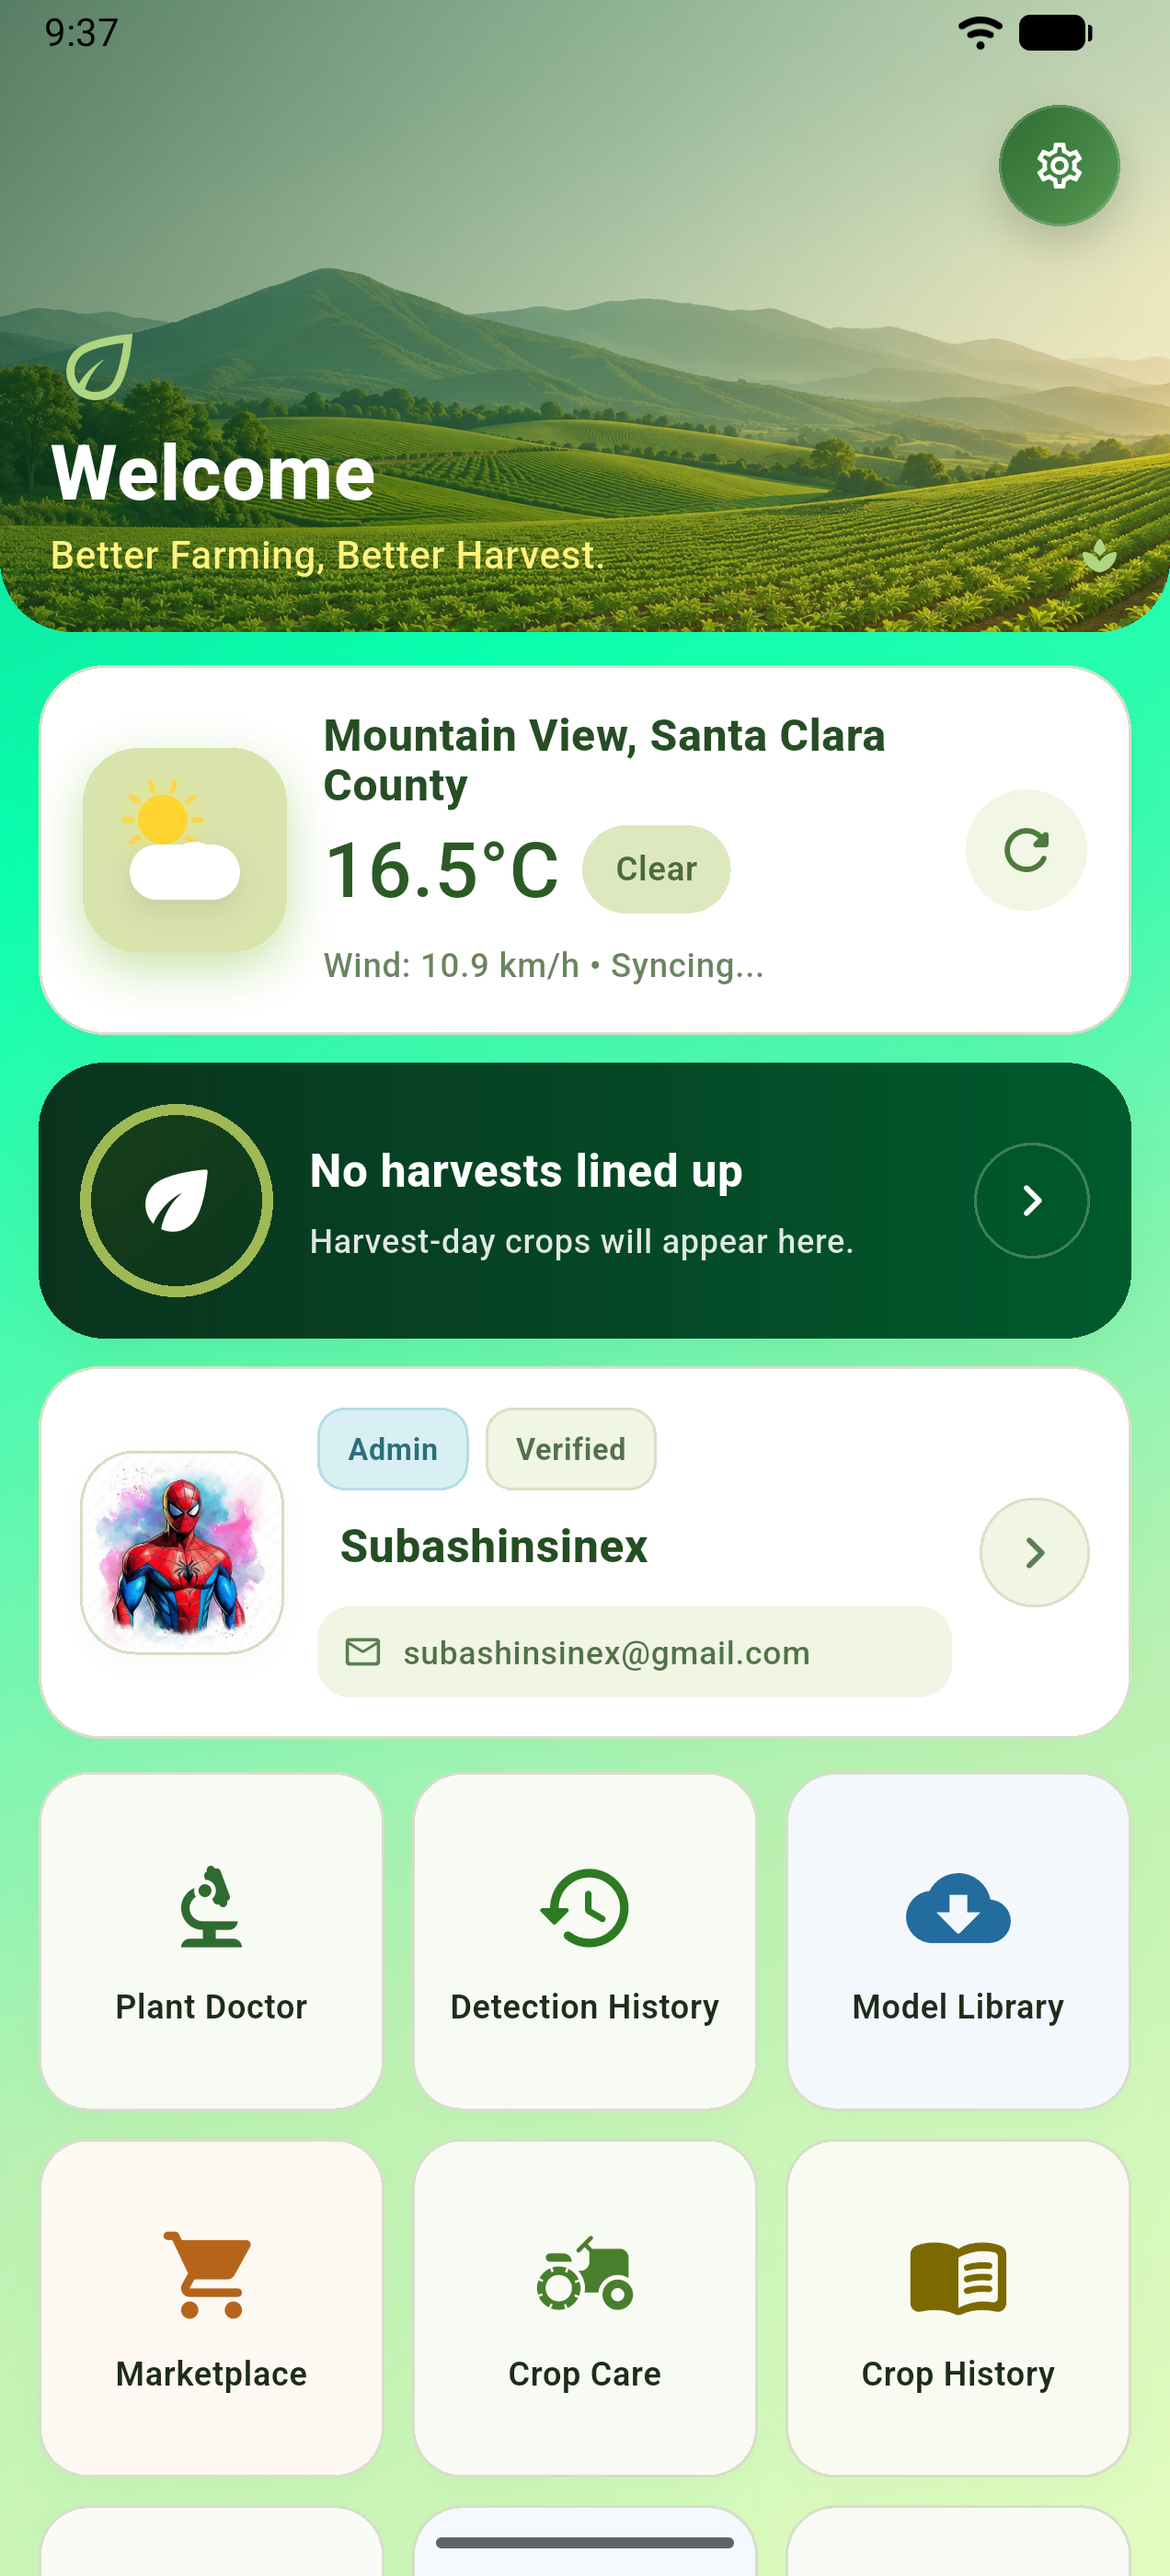
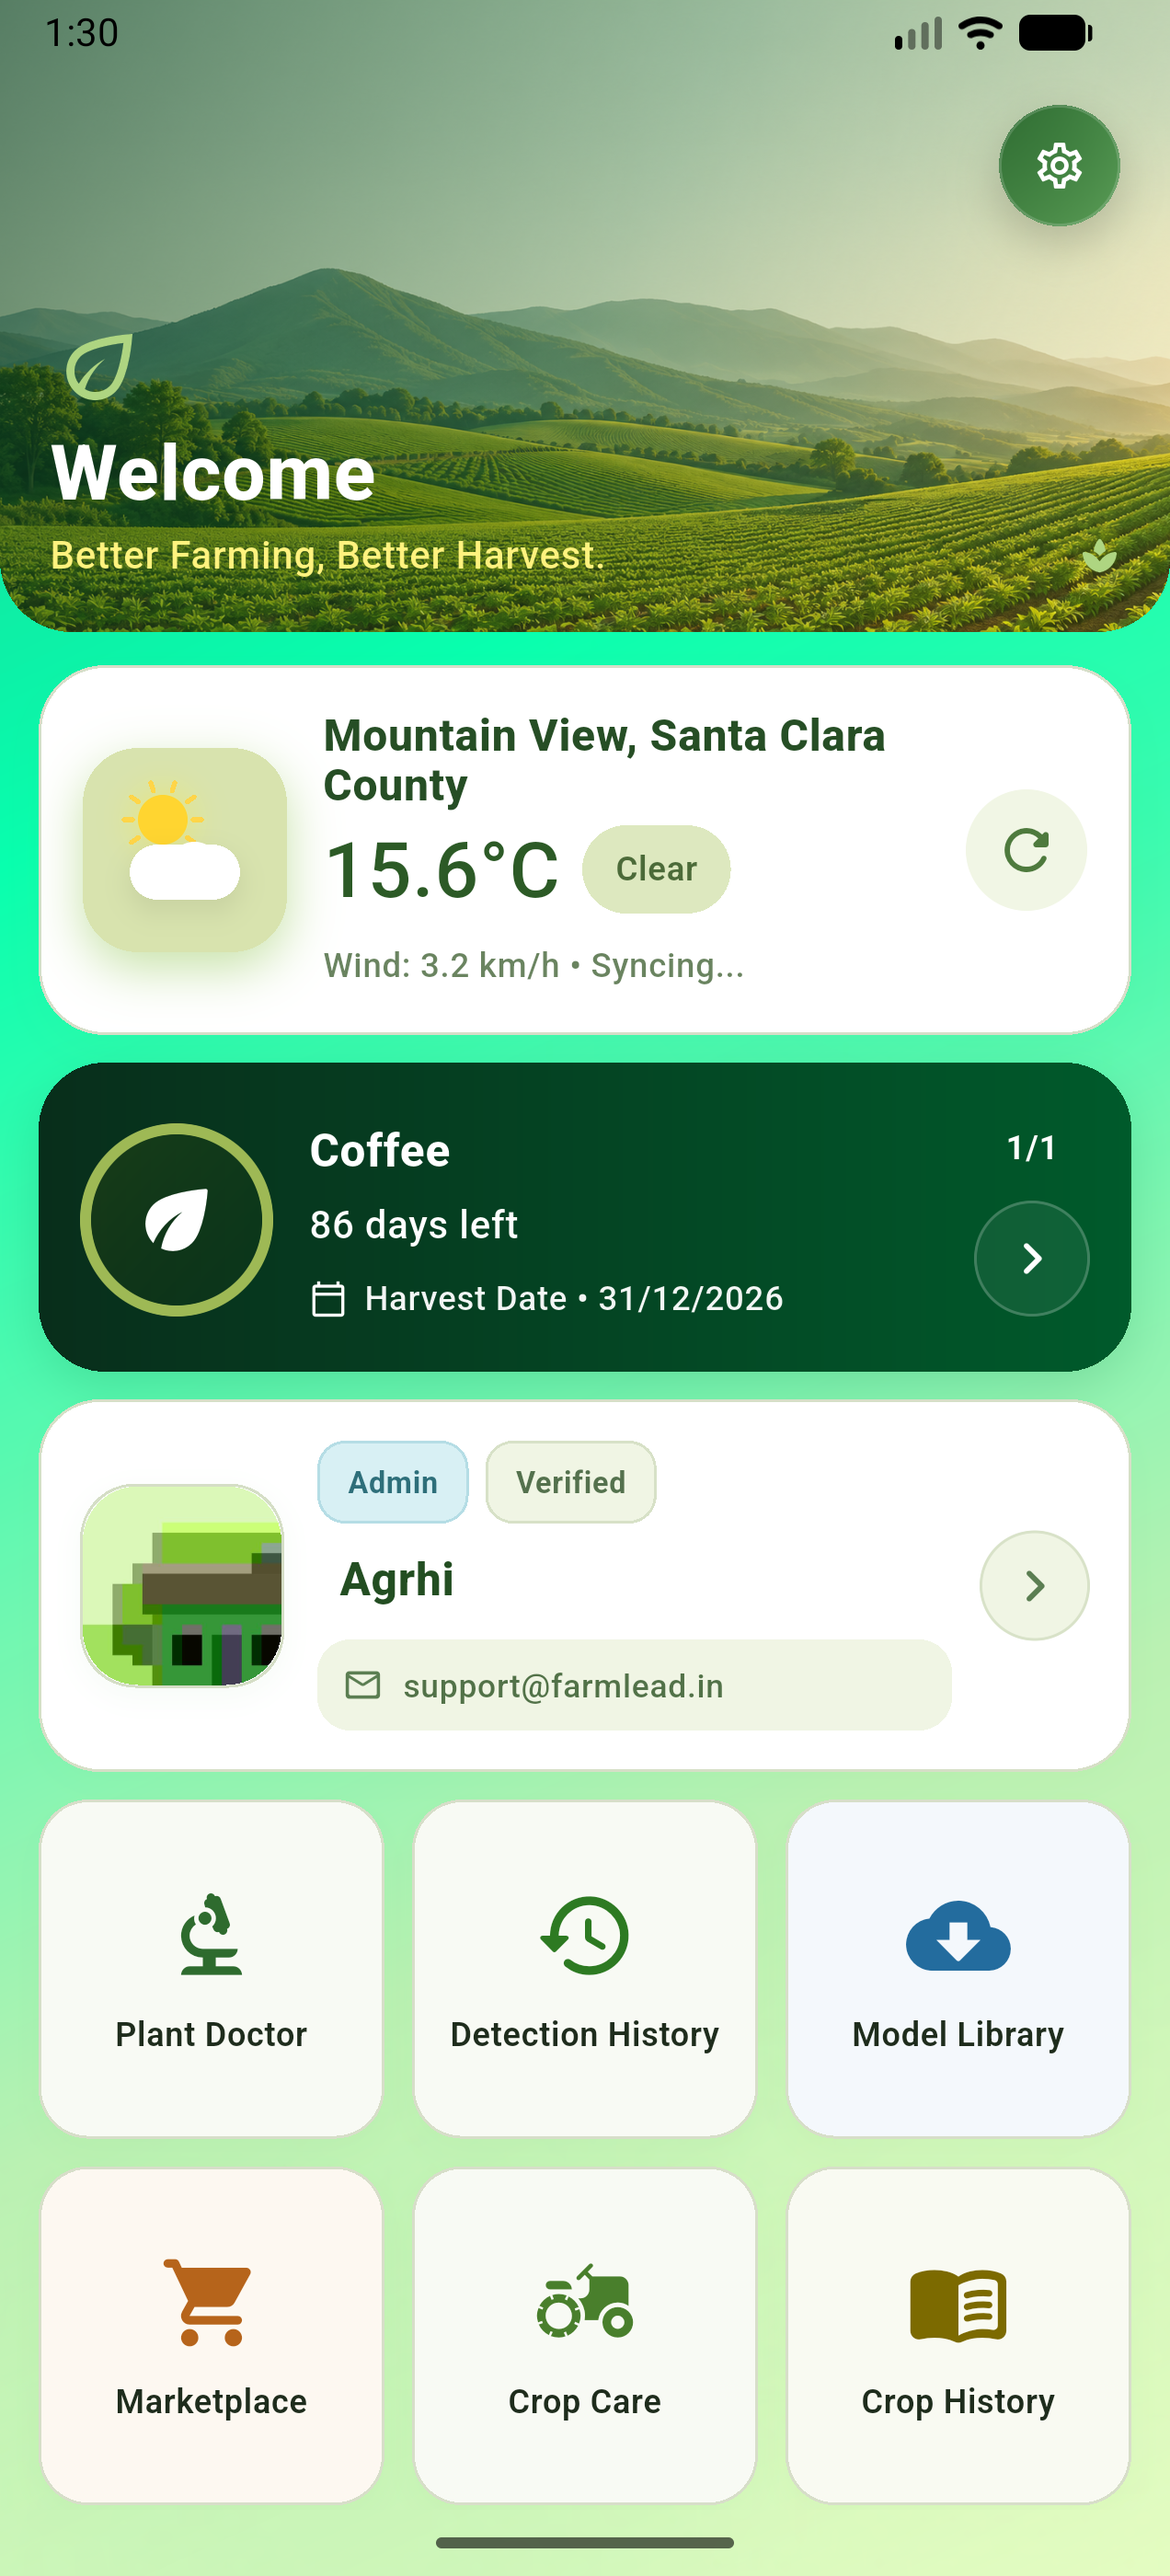
Version 1.1.3+11 Build

diff --git a/App/lib/data/database/database_helper.dart b/App/lib/data/database/database_helper.dart
@@ -1369,6 +1369,103 @@ class DatabaseHelper {
     }
   }
 
+  Future<void> ensureFarmCatalogsLoaded(String? accessToken) {
+    return _ensureCatalogsLoaded(
+      accessToken: accessToken,
+      catalogName: 'farm',
+      loaders: [
+        getAllSoilTypes,
+        getAllIrrigationTypes,
+        getAllWaterSources,
+      ],
+      referenceTables: const {
+        'soil_types',
+        'irrigation_method',
+        'water_src',
+      },
+    );
+  }
+
+  Future<void> ensureCropCatalogsLoaded(String? accessToken) {
+    return _ensureCatalogsLoaded(
+      accessToken: accessToken,
+      catalogName: 'crop',
+      loaders: [getAllPlants, getAllSoilTypes],
+      referenceTables: const {'plants', 'soil_types'},
+    );
+  }
+
+  Future<void> _ensureCatalogsLoaded({
+    required String? accessToken,
+    required String catalogName,
+    required List<Future<List<Map<String, dynamic>>> Function()> loaders,
+    required Set<String> referenceTables,
+  }) async {
+    Future<bool> catalogsAreLoaded() async {
+      final catalogs = await Future.wait(loaders.map((loader) => loader()));
+      return catalogs.every((catalog) => catalog.isNotEmpty);
+    }
+
+    final catalogsLoaded = await catalogsAreLoaded();
+
+    if (accessToken == null || accessToken.isEmpty) {
+      if (catalogsLoaded) return;
+      throw StateError(
+        'Unable to load $catalogName options without an access token',
+      );
+    }
+
+    final serverVersions = await fetchServerTableVersions(accessToken);
+    if (serverVersions.isEmpty) {
+      throw StateError('Unable to verify $catalogName options');
+    }
+
+    final versionsCurrent = await _referenceTablesAreCurrent(
+      serverVersions,
+      referenceTables,
+    );
+    if (catalogsLoaded && versionsCurrent) return;
+
+    debugPrint('📦 Syncing $catalogName catalogs...');
+    final result = await smartSyncCatalogs(accessToken);
+    final refreshedVersions = await fetchServerTableVersions(accessToken);
+    final refreshedVersionsCurrent = refreshedVersions.isNotEmpty &&
+        await _referenceTablesAreCurrent(refreshedVersions, referenceTables);
+
+    if (result['success'] != true ||
+        !await catalogsAreLoaded() ||
+        !refreshedVersionsCurrent) {
+      throw StateError(
+        result['message'] ?? 'Unable to load $catalogName options',
+      );
+    }
+
+    debugPrint('✅ $catalogName catalogs are loaded and current');
+  }
+
+  Future<bool> _referenceTablesAreCurrent(
+    Map<String, String> serverVersions,
+    Set<String> referenceTables,
+  ) async {
+    final localVersions = await getReferenceTableVersions();
+    final localByTable = {
+      for (final version in localVersions)
+        version['ref_table_name']?.toString(): version['updated_at']?.toString(),
+    };
+
+    for (final tableName in referenceTables) {
+      final serverUpdatedAt = DateTime.tryParse(serverVersions[tableName] ?? '');
+      final localUpdatedAt = DateTime.tryParse(localByTable[tableName] ?? '');
+      if (serverUpdatedAt == null ||
+          localUpdatedAt == null ||
+          serverUpdatedAt.isAfter(localUpdatedAt)) {
+        return false;
+      }
+    }
+
+    return true;
+  }
+
   Future<Map<String, dynamic>> smartSyncCatalogs(String accessToken) async {
     try {
       debugPrint('🔄 smartSyncCatalogs starting...');

diff --git a/App/lib/views/features/crop_care/add_edit_crop_screen.dart b/App/lib/views/features/crop_care/add_edit_crop_screen.dart
@@ -1,5 +1,8 @@
+import 'dart:async';
+
 import 'package:agrhi/core/utils/decimal_input.dart';
 import 'package:agrhi/core/errors/app_failure.dart';
+import 'package:agrhi/core/utils/storage_helper.dart';
 // lib/views/features/crop_care/add_edit_crop_screen.dart
 import 'package:flutter/material.dart';
 import 'package:flutter/services.dart';
@@ -21,6 +24,7 @@ class AddCropScreen extends StatefulWidget {
 
 class _AddCropScreenState extends State<AddCropScreen> {
   final _formKey = GlobalKey<FormState>();
+  final _storage = StorageHelper();
   final _fieldSizeController = TextEditingController();
 
   String? _selectedFarmId;
@@ -84,10 +88,17 @@ class _AddCropScreenState extends State<AddCropScreen> {
   Future<void> _loadReferenceData() async {
     setState(() => _isLoading = true);
 
+    var shouldRetry = false;
+
     try {
       final db = DatabaseHelper.instance;
+      final accessToken = await _storage.getAccessToken();
+      await db.ensureCropCatalogsLoaded(accessToken);
+
       final farms = await db.getAllFarmsWithRelations();
       final plants = await db.getAllPlants();
+
+      if (!mounted) return;
 
       setState(() {
         _farms = farms;
@@ -99,18 +110,16 @@ class _AddCropScreenState extends State<AddCropScreen> {
       }
     } catch (e) {
       debugPrint('❌ Error loading reference data: $e');
-      if (mounted) {
-        ScaffoldMessenger.of(context).showSnackBar(
-          SnackBar(
-            content: SmartReTranslator(text: AppFailure.from(e).message),
-            backgroundColor: AppColors.errorColor,
-          ),
-        );
-      }
+      shouldRetry = true;
     } finally {
-      if (mounted) {
+      if (mounted && !shouldRetry) {
         setState(() => _isLoading = false);
       }
+    }
+
+    if (shouldRetry && mounted) {
+      await Future<void>.delayed(const Duration(seconds: 3));
+      if (mounted) unawaited(_loadReferenceData());
     }
   }
 
@@ -271,18 +280,25 @@ class _AddCropScreenState extends State<AddCropScreen> {
           selectedPlant?['name']?.toString() ??
           'Crop';
 
-      await RemindersManager.instance.cancelCropReminders(cropId);
+      // Crop persistence must not be rolled back in the UI by a best-effort
+      // local reminder operation, including a corrupted notification cache.
+      try {
+        await RemindersManager.instance.cancelCropReminders(cropId);
 
-      final bool shouldScheduleReminders =
-          _harvestDate != null && _isActive && _status != 'Harvested';
+        final bool shouldScheduleReminders =
+            _harvestDate != null && _isActive && _status != 'Harvested';
 
-      if (shouldScheduleReminders) {
-        await RemindersManager.instance.scheduleCropReminders(
-          cropId: cropId,
-          plantName: plantName,
-          plantingDate: _plantingDate!,
-          harvestDate: _harvestDate,
-        );
+        if (shouldScheduleReminders) {
+          await RemindersManager.instance.scheduleCropReminders(
+            cropId: cropId,
+            plantName: plantName,
+            plantingDate: _plantingDate!,
+            harvestDate: _harvestDate,
+          );
+        }
+      } catch (e, stackTrace) {
+        debugPrint('Crop $cropId saved, but reminder refresh failed: $e');
+        debugPrintStack(stackTrace: stackTrace);
       }
 
       debugPrint(

diff --git a/App/lib/views/features/crop_care/add_edit_farm_screen.dart b/App/lib/views/features/crop_care/add_edit_farm_screen.dart
@@ -1,5 +1,8 @@
+import 'dart:async';
+
 import 'package:agrhi/core/utils/decimal_input.dart';
 import 'package:agrhi/core/errors/app_failure.dart';
+import 'package:agrhi/core/utils/storage_helper.dart';
 // lib/views/features/crop_care/add_edit_farm_screen.dart
 import 'package:flutter/material.dart';
 import 'package:flutter/services.dart';
@@ -20,6 +23,7 @@ class AddFarmScreen extends StatefulWidget {
 
 class _AddFarmScreenState extends State<AddFarmScreen> {
   final _formKey = GlobalKey<FormState>();
+  final _storage = StorageHelper();
   final _surveyNumberController = TextEditingController();
   final _farmSizeController = TextEditingController();
 
@@ -68,37 +72,43 @@ class _AddFarmScreenState extends State<AddFarmScreen> {
 
   Future<void> _loadReferenceData() async {
     setState(() => _isLoading = true);
+
+    var shouldRetry = false;
+
     try {
       final db = DatabaseHelper.instance;
-      final soilTypes = await db.getAllSoilTypes();
-      final irrigationTypes = await db.getAllIrrigationTypes();
-      final waterSources = await db.getAllWaterSources();
+
+      final accessToken = await _storage.getAccessToken();
+      await db.ensureFarmCatalogsLoaded(accessToken);
+
+      // Read again after sync.
+      final updatedSoilTypes = await db.getAllSoilTypes();
+      final updatedIrrigationTypes = await db.getAllIrrigationTypes();
+      final updatedWaterSources = await db.getAllWaterSources();
 
       if (!mounted) return;
 
       setState(() {
-        _soilTypes = soilTypes;
-        _irrigationTypes = irrigationTypes;
-        _waterSources = waterSources;
+        _soilTypes = updatedSoilTypes;
+        _irrigationTypes = updatedIrrigationTypes;
+        _waterSources = updatedWaterSources;
       });
 
       if (_isEditing) {
         await _populateFormData();
       }
     } catch (e) {
-      debugPrint('❌ Error loading reference data: $e');
-      if (mounted) {
-        ScaffoldMessenger.of(context).showSnackBar(
-          SnackBar(
-            content: SmartReTranslator(text: AppFailure.from(e).message),
-            backgroundColor: AppColors.errorColor,
-          ),
-        );
-      }
+      debugPrint('❌ Error loading farm catalogs: $e');
+      shouldRetry = true;
     } finally {
-      if (mounted) {
+      if (mounted && !shouldRetry) {
         setState(() => _isLoading = false);
       }
+    }
+
+    if (shouldRetry && mounted) {
+      await Future<void>.delayed(const Duration(seconds: 3));
+      if (mounted) unawaited(_loadReferenceData());
     }
   }
 

diff --git a/App/lib/views/features/dashboard_screen.dart b/App/lib/views/features/dashboard_screen.dart
@@ -2,7 +2,6 @@ import 'dart:convert';
 import 'dart:io';
 import 'package:agrhi/core/utils/system_ui.dart';
 import 'package:agrhi/services/session_coordinator.dart';
-import 'package:agrhi/services/pending_work_service.dart';
 import 'package:agrhi/controllers/post_upload_controller.dart';
 
 import 'package:flutter/material.dart';
@@ -627,38 +626,6 @@ class _DashboardScreenState extends State<DashboardScreen>
       );
       await session.beginClose();
       ownsClose = true;
-      if (!mounted) return;
-      final pending =
-          await PendingWorkService.hasPendingWork() ||
-          PostUploadController.instance.activeTasks.any(
-            (task) => task.isFailed,
-          );
-      if (!mounted) return;
-      if (pending) {
-        final discard = await showDialog<bool>(
-          context: context,
-          barrierDismissible: false,
-          builder: (context) => AlertDialog(
-            title: const Text('Unsynced changes'),
-            content: const Text(
-              'You have changes that have not been uploaded. '
-              'Stay signed in to sync them, or discard them and log out. '
-              'Discarded changes cannot be recovered.',
-            ),
-            actions: [
-              TextButton(
-                onPressed: () => Navigator.pop(context, false),
-                child: const Text('Keep changes'),
-              ),
-              TextButton(
-                onPressed: () => Navigator.pop(context, true),
-                child: const Text('Discard and log out'),
-              ),
-            ],
-          ),
-        );
-        if (discard != true) return;
-      }
       await performBackgroundCleanup();
       PostUploadController.instance.clearFinishedTasks();
       if (!mounted) return;

diff --git a/App/lib/services/notification_service.dart b/App/lib/services/notification_service.dart
@@ -114,11 +114,6 @@ class NotificationService {
 
     debugPrint('AGRHI_NOTIFICATION_PERMISSION granted=$notificationsGranted');
 
-    final bool? exactAlarmGranted = await androidPlugin
-        ?.requestExactAlarmsPermission();
-
-    debugPrint('AGRHI_EXACT_ALARM_PERMISSION granted=$exactAlarmGranted');
-
     const channel = AndroidNotificationChannel(
       agrhiChannelId,
       agrhiChannelName,
@@ -197,14 +192,6 @@ class NotificationService {
       return;
     }
 
-    final androidPlugin = plugin
-        .resolvePlatformSpecificImplementation<
-          AndroidFlutterLocalNotificationsPlugin
-        >();
-
-    final bool? exactAlarmsAllowed = await androidPlugin
-        ?.canScheduleExactNotifications();
-
     final zonedDate = tz.TZDateTime.from(scheduledDate, tz.local);
 
     await _plugin.zonedSchedule(
@@ -213,9 +200,7 @@ class NotificationService {
       body,
       zonedDate,
       _notificationDetails(),
-      androidScheduleMode: (exactAlarmsAllowed ?? false)
-          ? AndroidScheduleMode.exactAllowWhileIdle
-          : AndroidScheduleMode.inexactAllowWhileIdle,
+      androidScheduleMode: AndroidScheduleMode.inexactAllowWhileIdle,
       uiLocalNotificationDateInterpretation:
           UILocalNotificationDateInterpretation.absoluteTime,
       payload: payload,
@@ -367,8 +352,6 @@ class NotificationService {
       );
 
       debugPrintStack(stackTrace: stackTrace);
-
-      rethrow;
     }
   }
 

diff --git a/Server/routes/developerRoutes.js b/Server/routes/developerRoutes.js
@@ -14,7 +14,7 @@ router.post("/config", async (req, res) => {
     const config = await getAppConfig();
     const currentBuild = parseInt(build_number) || 0;
     const latestBuild = parseInt(config.latest_build_number) || 0;
-    const needsUpdate = currentBuild !== latestBuild;
+    const needsUpdate = currentBuild < latestBuild;
 
     res.json({
       needs_update: needsUpdate,

diff --git a/App/lib/core/utils/constants.dart b/App/lib/core/utils/constants.dart
@@ -6,7 +6,7 @@ class AppConstants {
   // API Configuration
   static const String baseUrl = 'https://www.farmlead.in/v1/api';
 
-  static const String appVersion = '1.0.0';
+  static const String appVersion = '1.1.3';
 
   // Validation Constants
   static const int minPasswordLength = 4;

diff --git a/App/lib/services/reminders_manager.dart b/App/lib/services/reminders_manager.dart
@@ -154,7 +154,6 @@ class RemindersManager {
     } catch (e, stackTrace) {
       debugPrint('❌ Error cancelling reminders for crop $cropId: $e');
       debugPrintStack(stackTrace: stackTrace);
-      rethrow;
     }
   }
 
